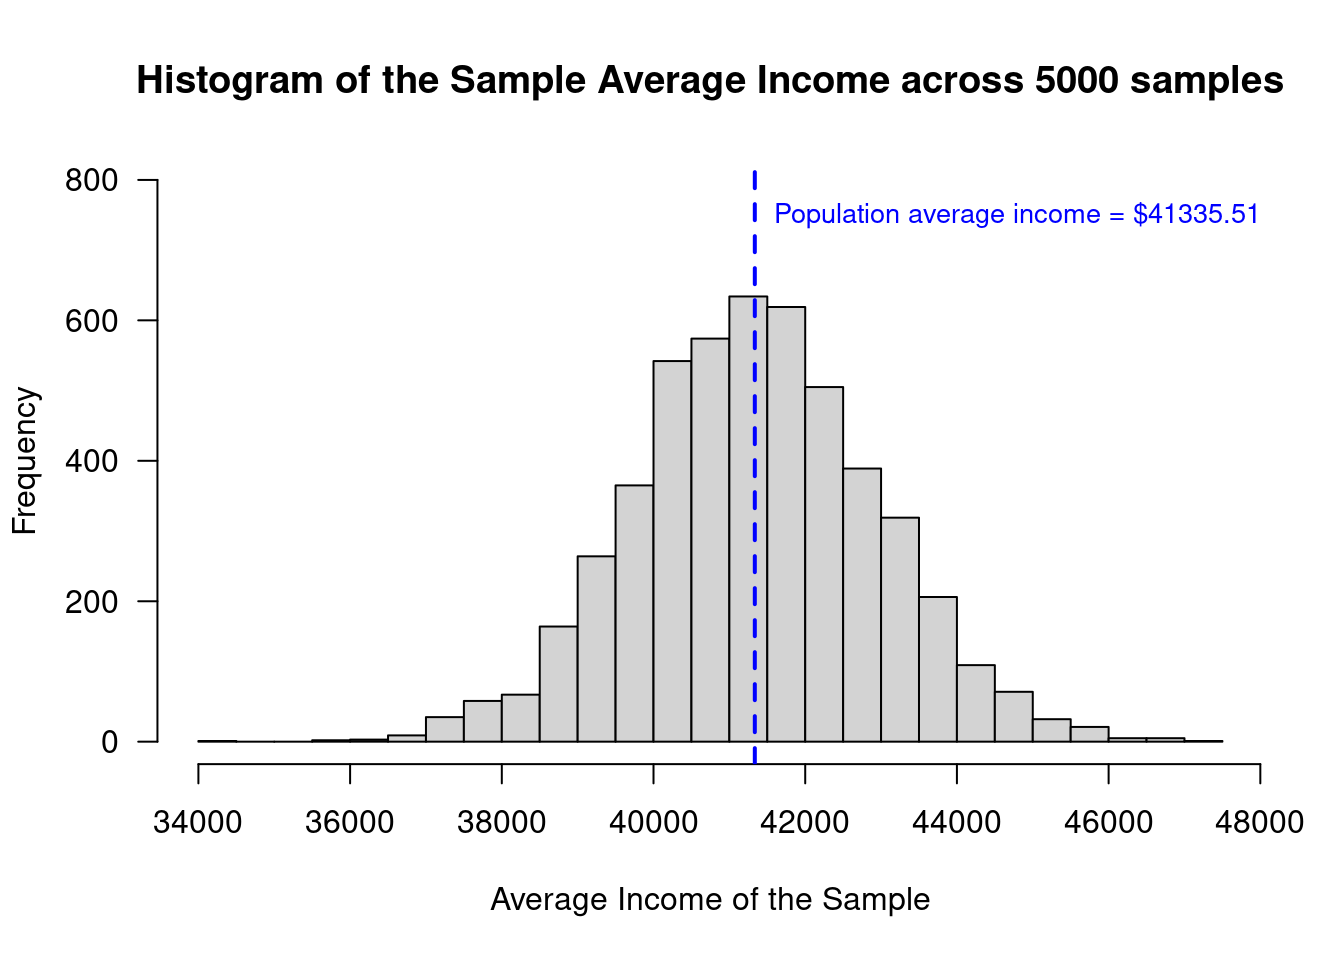
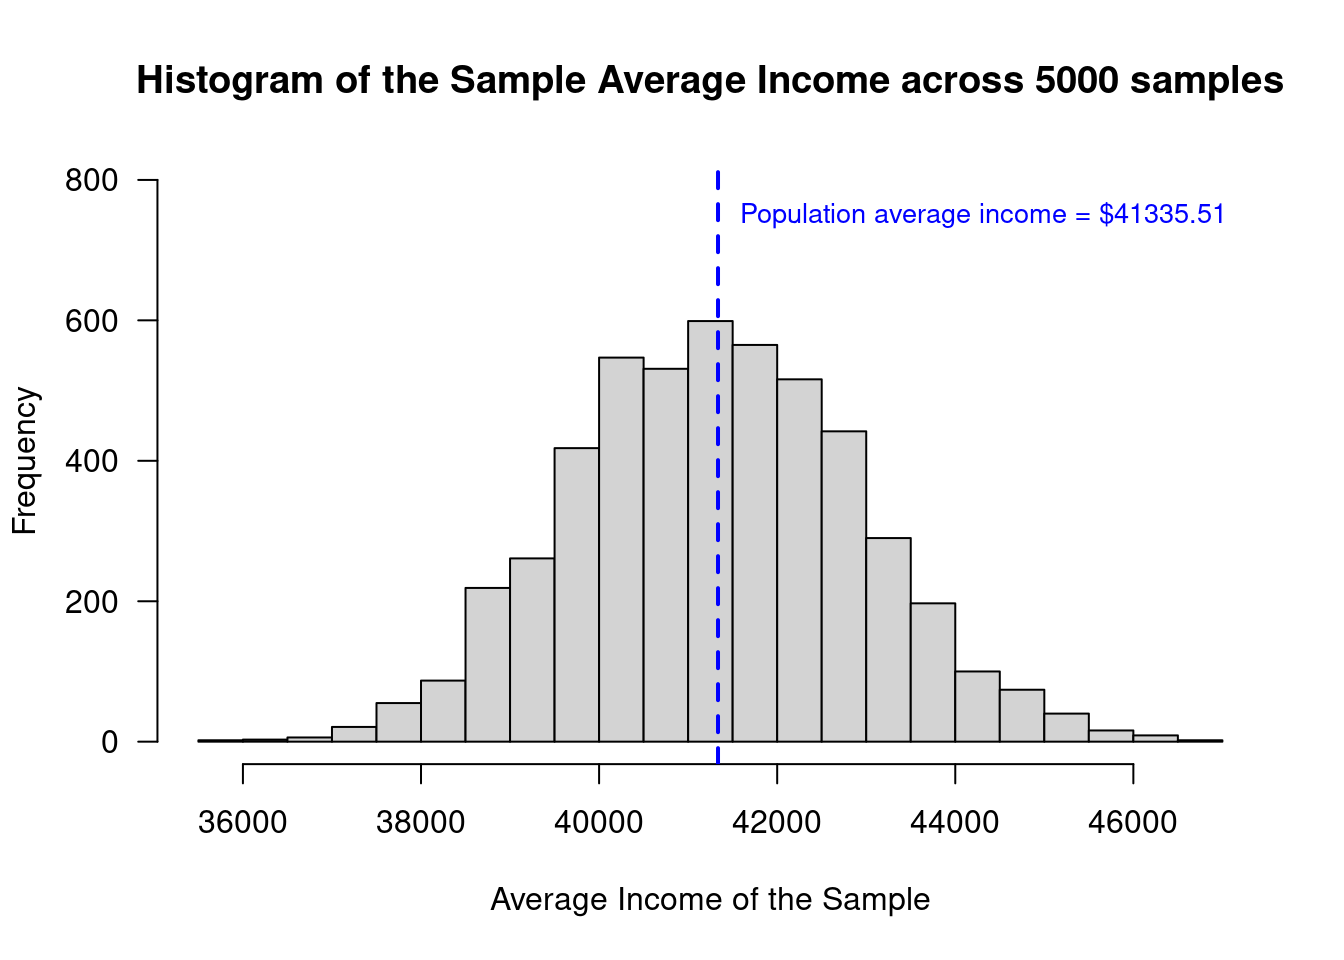
Spacing

diff --git a/docs/03b-CLT.html b/docs/03b-CLT.html
@@ -338,6 +338,8 @@ div.tocify {
 </div>
 
 
+<hr />
+<hr />
 <p>Learning objectives of this asynchronous lesson:</p>
 <ul>
 <li>Recognize that estimates derived from samples may not precisely
@@ -457,11 +459,11 @@ deviation of the sample.</p>
 <pre class="r"><code># Calculate the sample mean of Income
 sample.avg &lt;- mean(study.data$INCOME)
 sample.avg</code></pre>
-<pre><code>&gt; [1] 41254.95</code></pre>
+<pre><code>&gt; [1] 43751.46</code></pre>
 <pre class="r"><code># Calculate the sample sd of Income
 sample.sd &lt;- sd(study.data$INCOME)
 sample.sd</code></pre>
-<pre><code>&gt; [1] 30743.3</code></pre>
+<pre><code>&gt; [1] 32476.54</code></pre>
 <p>If you run the last two sections of code repeatedly, you will find
 that each time a new sample is selected the sample mean is a different
 number.</p>
@@ -587,7 +589,7 @@ upperCI = sample.avg + qnorm(0.975, mean = 0, sd = 1) * se
 
 print(cbind(sample.avg, lowerCI, upperCI))</code></pre>
 <pre><code>&gt;      sample.avg  lowerCI  upperCI
-&gt; [1,]    41876.9 38721.13 45032.68</code></pre>
+&gt; [1,]   42070.57 39013.61 45127.52</code></pre>
 </div>
 <div id="interpreting-confidence-intervals" class="section level2">
 <h2>Interpreting confidence intervals</h2>
@@ -613,7 +615,7 @@ sample.reps$outBounds[ true.avg &gt; sample.reps$upperCI ] &lt;- 1
 
 # what % of study replications reported 95% CI that did not include the true population average?
 sum(sample.reps$outBounds)/m</code></pre>
-<pre><code>&gt; [1] 0.0526</code></pre>
+<pre><code>&gt; [1] 0.053</code></pre>
 <p>I hope it is not too much of a surprise that this is really close to
 5%!</p>
 <p>Next: Elements of a Statistical Test</p>

diff --git a/docs/Hypothesis-Testing.html b/docs/Hypothesis-Testing.html
@@ -345,8 +345,7 @@ div.tocify {
 <p>All of the datasets used in examples on this site and in Ivey
 Business Statistics are available here:</p>
 <p><a href="01-Datasets.html">Datasets Home Page</a></p>
-<p><br><br />
-<br></p>
+<hr />
 </div>
 <div id="hypothesis-testing-in-r" class="section level2">
 <h2>Hypothesis Testing in R</h2>
@@ -354,36 +353,35 @@ Business Statistics are available here:</p>
 class="section level3">
 <h3>Central Limit Theorem &amp; the Normal Distribution</h3>
 <ul>
-<li><a href="03b-CLT.html">Webpage</a><br />
-<br></li>
+<li><a href="03b-CLT.html">Webpage</a></li>
 </ul>
+<hr />
 </div>
 <div id="binomial-test" class="section level3">
 <h3>Binomial Test</h3>
 <ul>
-<li><a href="04a-Binomial-Test.html">Webpage</a><br />
-<br></li>
+<li><a href="04a-Binomial-Test.html">Webpage</a></li>
 </ul>
+<hr />
 </div>
 <div id="t-test" class="section level3">
 <h3>T Test</h3>
 <ul>
-<li><a href="04b-T-Test.html">Webpage</a><br />
-<br></li>
+<li><a href="04b-T-Test.html">Webpage</a></li>
 </ul>
+<hr />
 </div>
 <div id="wilcoxon-mann-whitney-u-test" class="section level3">
 <h3>Wilcoxon-Mann-Whitney U-Test</h3>
 <ul>
-<li><a href="04c-WMW-U.html">Webpage</a><br />
-<br></li>
+<li><a href="04c-WMW-U.html">Webpage</a></li>
 </ul>
+<hr />
 </div>
 <div id="anova-kruskall-wallis" class="section level3">
 <h3>ANOVA &amp; Kruskall-Wallis</h3>
 <ul>
-<li><a href="04d-ANOVA.html">Webpage</a><br />
-<br></li>
+<li><a href="04d-ANOVA.html">Webpage</a></li>
 </ul>
 <hr />
 <hr />

diff --git a/docs/04a-Binomial-Test.html b/docs/04a-Binomial-Test.html
@@ -338,6 +338,8 @@ div.tocify {
 </div>
 
 
+<hr />
+<hr />
 <p>Learning objectives of this asynchronous lesson:</p>
 <ul>
 <li>Understanding when to use the binomial test<br />
@@ -366,7 +368,7 @@ if(runif(1) &lt;= p){1}else{0}</code></pre>
 p = 1/6
 n = 20
 as.integer(runif(n) &lt;= p)</code></pre>
-<pre><code>&gt;  [1] 0 0 0 0 0 1 0 0 0 0 0 0 0 0 0 0 0 1 0 0</code></pre>
+<pre><code>&gt;  [1] 1 0 0 0 0 0 0 0 0 0 0 0 0 0 0 0 1 0 1 1</code></pre>
 </div>
 </div>
 <div id="binomial-distribution-functions" class="section level2">
@@ -424,9 +426,9 @@ trials when the probability of success is “prob”</p>
 n = 20
 p = 1/6
 rbinom(n = trials, size = n, prob = p)</code></pre>
-<pre><code>&gt;   [1] 6 1 2 2 5 4 7 4 4 3 3 5 4 4 2 2 4 5 3 4 5 1 3 4 2 5 6 3 4 2 3 3 2 2 1 2 2
-&gt;  [38] 3 3 6 3 4 4 4 3 3 3 5 6 2 5 3 3 3 3 5 4 2 1 1 1 2 8 3 4 3 3 4 5 3 1 2 2 3
-&gt;  [75] 4 3 2 4 4 2 2 5 4 2 4 1 2 5 1 4 4 2 3 3 3 5 2 2 6 3</code></pre>
+<pre><code>&gt;   [1] 4 3 4 3 3 2 2 4 5 2 1 5 0 5 1 1 3 3 6 2 5 5 5 3 0 5 2 7 6 3 5 3 1 3 2 3 2
+&gt;  [38] 5 3 2 5 4 3 2 2 4 1 5 1 1 4 4 3 4 3 6 2 4 7 3 4 1 2 1 3 1 5 5 5 2 3 6 2 2
+&gt;  [75] 5 2 2 0 4 4 5 1 6 2 2 3 5 2 0 4 7 3 3 3 1 0 5 1 4 3</code></pre>
 </div>
 </div>
 <div id="binomial-test-theory" class="section level2">

diff --git a/docs/04c-WMW-U.html b/docs/04c-WMW-U.html
@@ -339,6 +339,8 @@ Test</h1>
 </div>
 
 
+<hr />
+<hr />
 <p>Learning objectives of this asynchronous lesson:</p>
 <ul>
 <li>Understanding when to use the Mann-Whitney U test</li>

diff --git a/docs/04b-T-Test.html b/docs/04b-T-Test.html
@@ -338,6 +338,8 @@ div.tocify {
 </div>
 
 
+<hr />
+<hr />
 <p>Learning objectives of this asynchronous lesson:</p>
 <ul>
 <li>Understanding when to use the t-test<br />

diff --git a/docs/Graphing-In-R.html b/docs/Graphing-In-R.html
@@ -338,6 +338,8 @@ div.tocify {
 </div>
 
 
+<hr />
+<hr />
 <div id="plot" class="section level2">
 <h2>Plot</h2>
 <p>The plot() function is used to draw points.</p>
